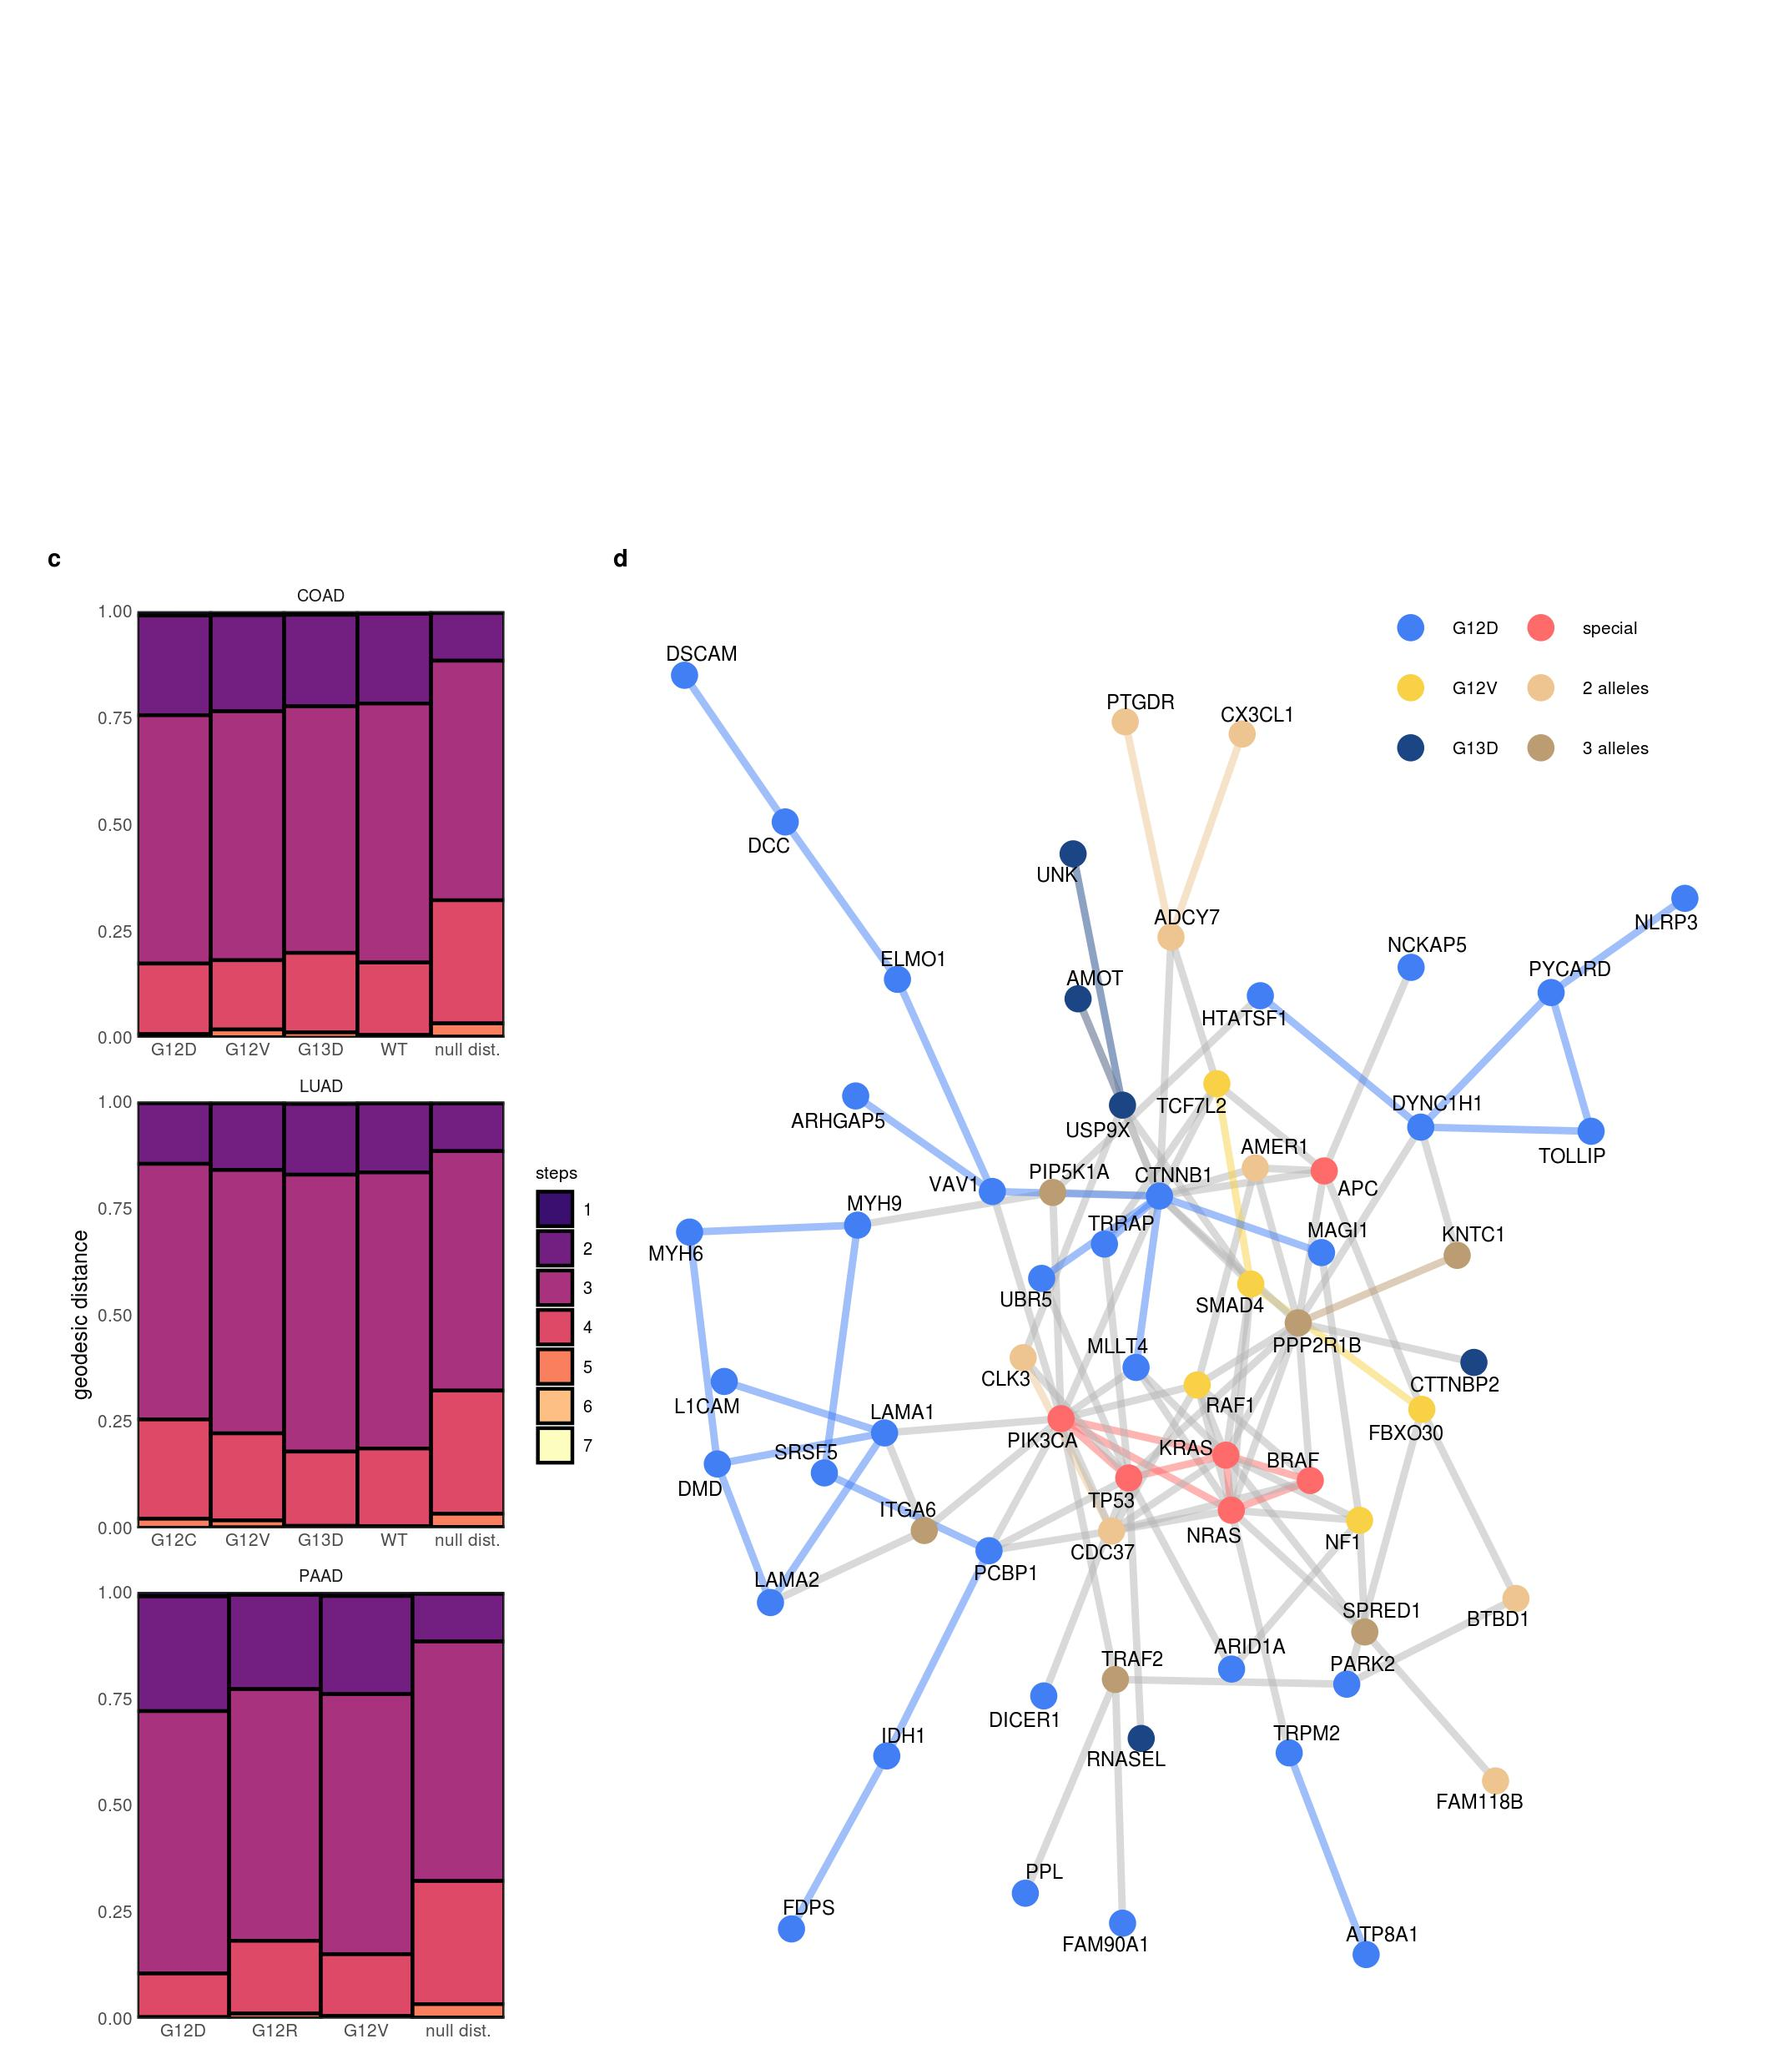
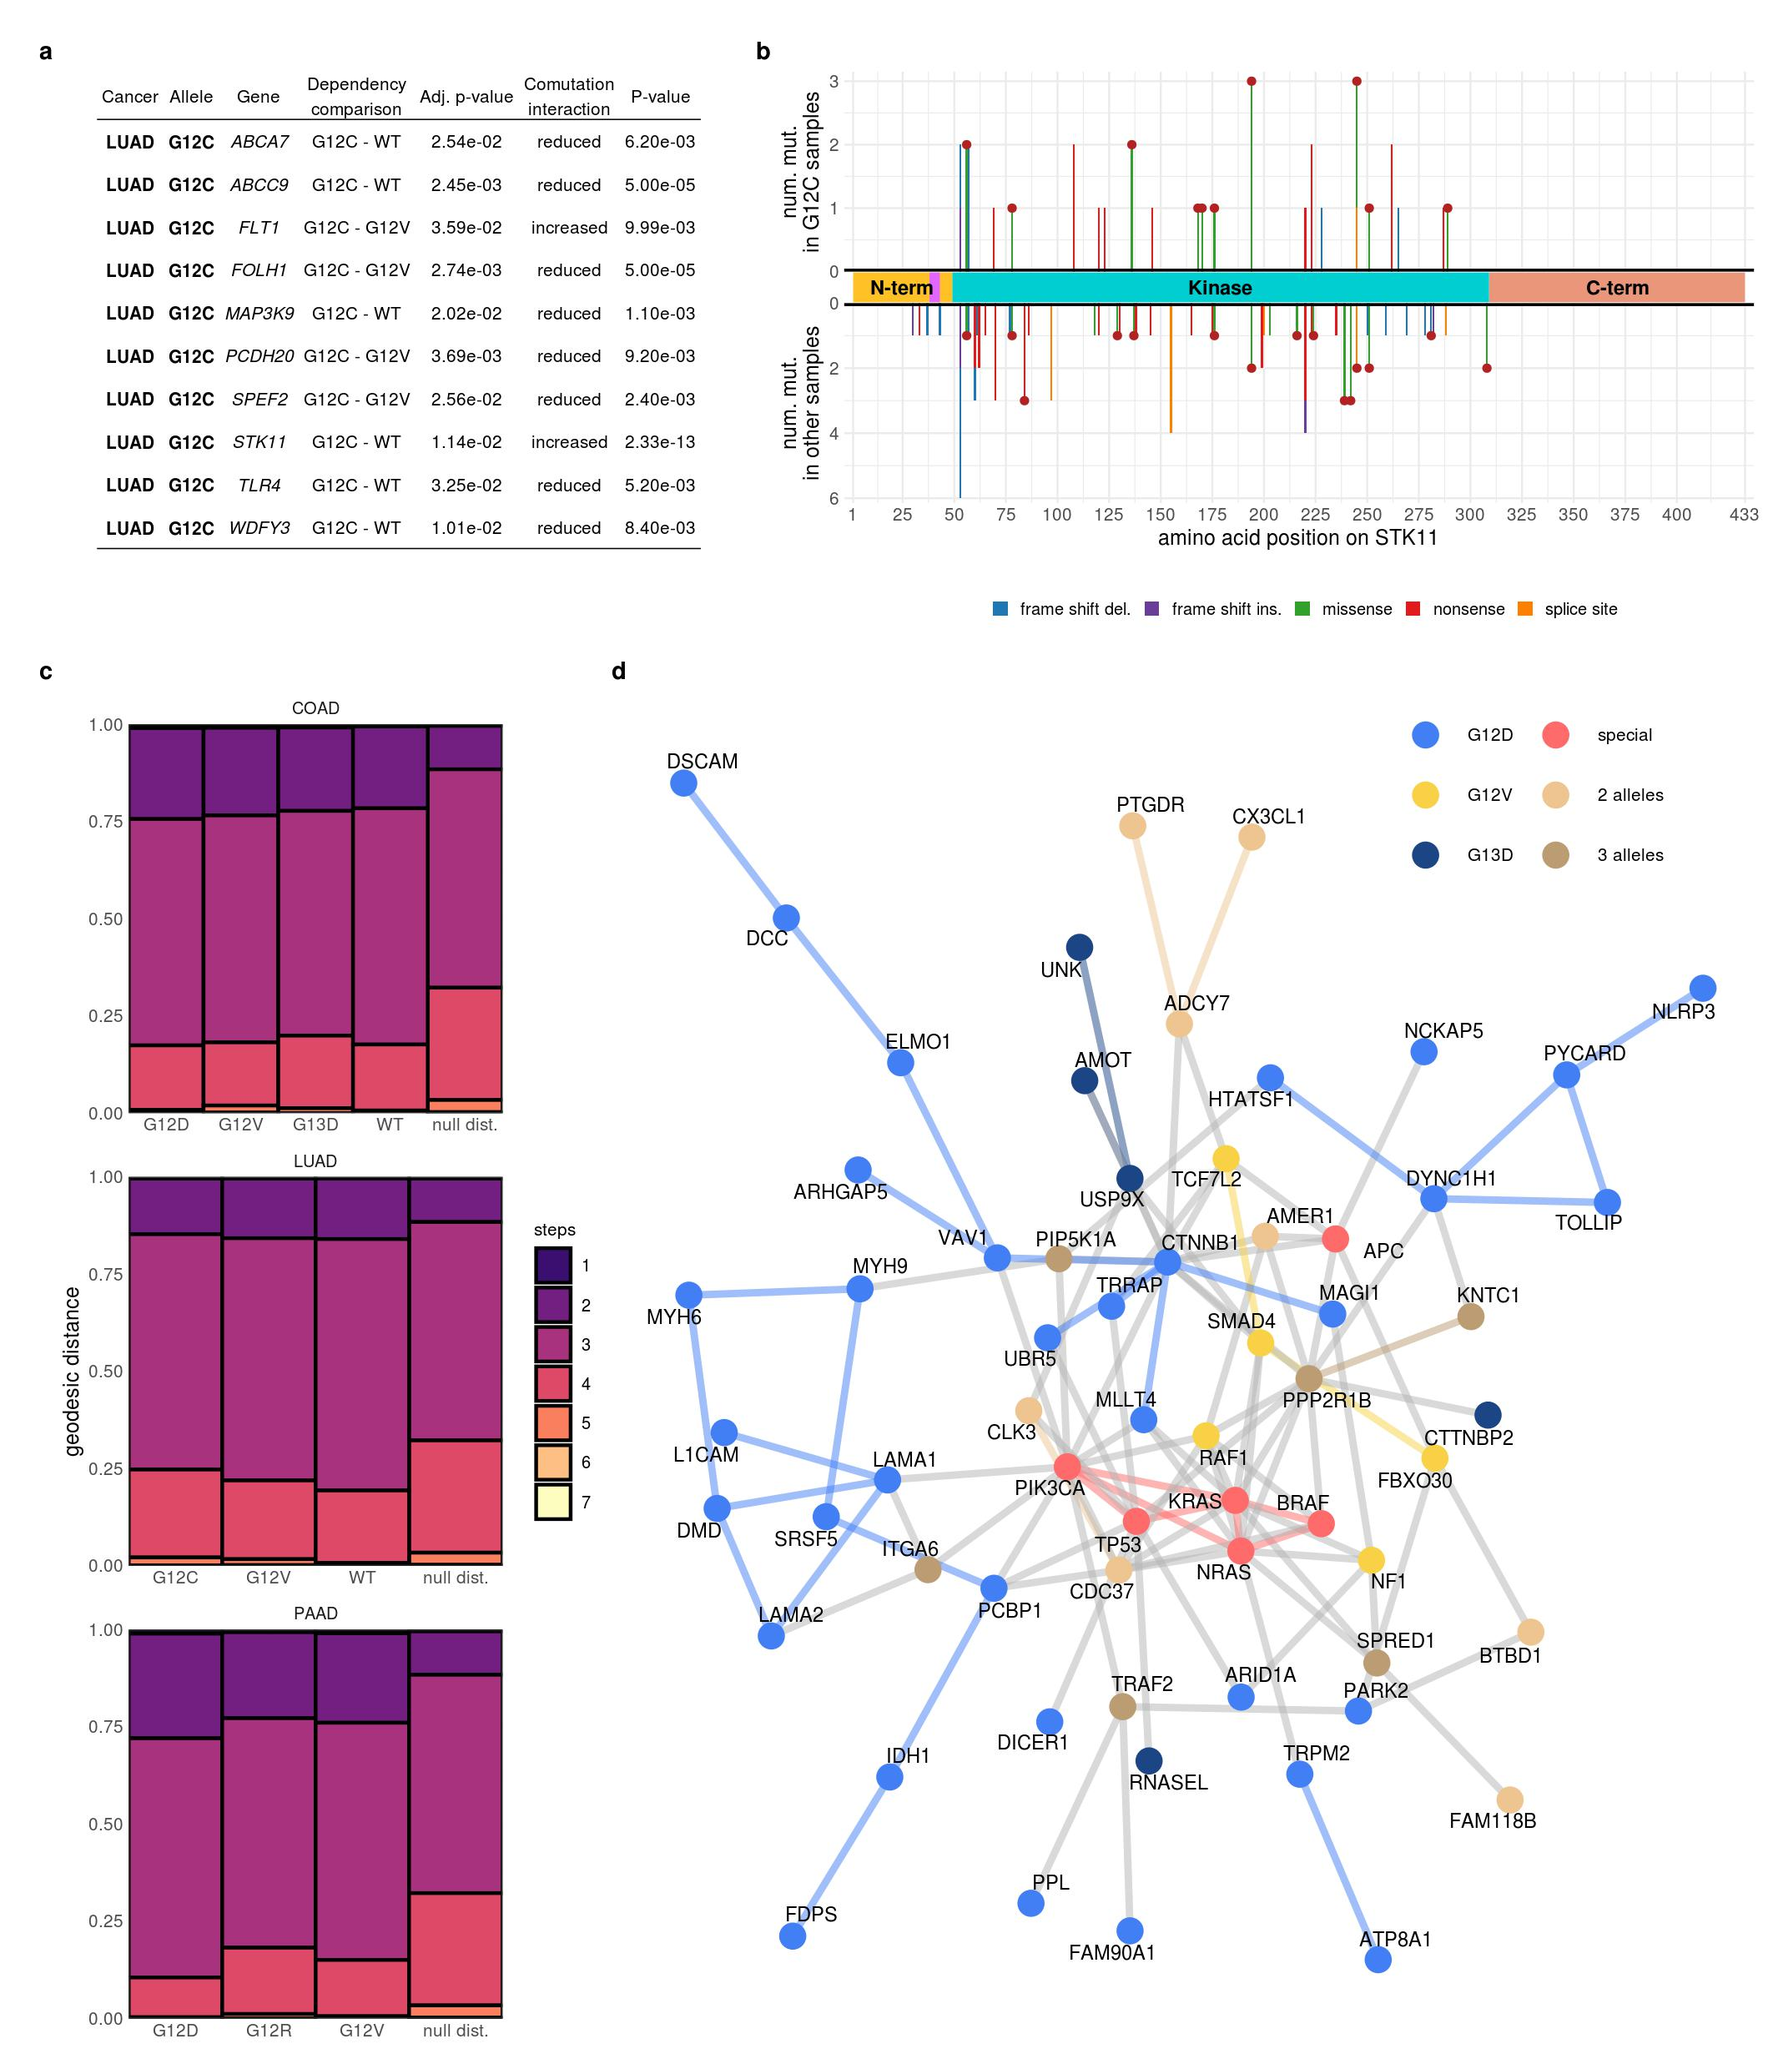
Update Fig 4, 6 after remove G13D cell lines from LUAD DepMap analysis.

diff --git a/comutation-manuscript.tex b/comutation-manuscript.tex
@@ -151,9 +151,6 @@ In COAD and PAAD, signature 18, likely caused by damage from reactive oxygen spe
 This corroborated the previous finding that \KRAS{} G12C mutations were more frequent in patients with MUTYH-Associated Polyposis \cite{Viel2017}, a recessive autosomal disease caused by biallelic loss-of-function mutations to the gene encoding the DNA glycosylase, \emph{MUTYH}, responsible for clearing 8-oxoguanine:A mismatches that can cause the G12C mutation.
 In MM, signature 9, associated with mutations introduced by polymerase $\eta$ repair of activation-induced deaminase (AID) activity \cite{Alexandrov2013, Rogozin2018DNACancer., Petljak2016UnderstandingCancer.}, was strongly linked with Q61H (Fig. \ref{fig:mutational-signatures-main}c, d), the most common \KRAS{} mutation in the cancer.
 
-% Overall, with the exceptions noted above, most of the \KRAS{} alleles cannot be attributed to a unique mutational signature. 
-% Instead, they are primarily attributable to the most common mutational process in the tumors: age-related mutation in COAD, MM, and PAAD, and tobacco smoke in LUAD.
-
 
 \subsection*{The frequency of most \KRAS{} alleles cannot be attributed to the prevalence of detected mutagens.}
 
@@ -277,15 +274,15 @@ These data suggest a reduced dependency on the activation of c-Jun via JNK signa
 
 \subsection*{An integrated analysis of allele-specific comutation and genetic dependencies.}
 
-% Integrating the results from the allele-specific comutation with those from the dependency analyses provided further insight into the distinctions between the \KRAS{} alleles.
-% Surprisingly, there was little overlap between the genes found to comutate with an allele and those with differential dependency - the only overlap was found with in the genes resulting from analysis of \KRAS{} G12C in LUAD (Fig. \ref{fig:results_integration_main}a).
-% One of these genes was \emph{STK11}, the gene encoding STK11 (LKB1), a tumor suppressor that controls the activity of AMP activated protein kinases (AMPK) to regulate cellular processes including metabolism, apoptosis, and the DNA-damage response \cite{Momcilovic2015TargetingVulnerabilities., Korsse2013TargetingCancer.}.
-% The high rate of comutation between \KRAS{} and \emph{STK11} has been documented previously, though not specifically with \KRAS{} G12C.
-% Previous studies have indicated unique biological properties of LUAD tumors with mutations in both \KRAS{} and \emph{STK11} including distinct expression profiles \cite{Skoulidis2015Co-occurringVulnerabilities.}, worse clinical prognosis \cite{LaFleur2019MutationSTK11, Bange2019ImpactCancer.}, and reduced response to immunotherapy \cite{Skoulidis2018STK11/LKB1Adenocarcinoma.}.
-% The results presented here may suggest a unique synergism between the G12C mutant and \emph{STK11} loss-of-function mutations.
-% Further analysis of the comutation and dependency networks may provide deeper insight into this clinically significant association.
-% Importantly, due to the strong influence of smoking-induced mutations to the prevalence of \KRAS{} G12C in LUAD, there was no apparent nor statistically detectable difference in the types or locations of \emph{STK11} mutations between G12C-mutant samples and the rest of the LUAD tumor samples (Fig. \ref{fig:results_integration_main}b).
-% Thus, it is unlikely that the genetic associations found here were driven by latent mutational processes, but instead they were determined by the selective advantage that concomitant \KRAS{} G12C and \emph{STK11} mutations have in a nascent tumor.
+Integrating the results from the allele-specific comutation with those from the dependency analyses provided further insight into the distinctions between the \KRAS{} alleles.
+Surprisingly, there was little overlap between the genes found to comutate with an allele and those with differential dependency - the only overlap was found with in the genes resulting from analysis of \KRAS{} G12C in LUAD (Fig. \ref{fig:results_integration_main}a).
+One of these genes was \emph{STK11}, the gene encoding STK11 (LKB1), a tumor suppressor that controls the activity of AMP activated protein kinases (AMPK) to regulate cellular processes including metabolism, apoptosis, and the DNA-damage response \cite{Momcilovic2015TargetingVulnerabilities., Korsse2013TargetingCancer.}.
+The high rate of comutation between \KRAS{} and \emph{STK11} has been documented previously, though not specifically with \KRAS{} G12C.
+Previous studies have indicated unique biological properties of LUAD tumors with mutations in both \KRAS{} and \emph{STK11} including distinct expression profiles \cite{Skoulidis2015Co-occurringVulnerabilities.}, worse clinical prognosis \cite{LaFleur2019MutationSTK11, Bange2019ImpactCancer.}, and reduced response to immunotherapy \cite{Skoulidis2018STK11/LKB1Adenocarcinoma.}.
+The results presented here may suggest a unique synergism between the G12C mutant and \emph{STK11} loss-of-function mutations.
+Further analysis of the comutation and dependency networks may provide deeper insight into this clinically significant association.
+Importantly, due to the strong influence of smoking-induced mutations to the prevalence of \KRAS{} G12C in LUAD, there was no apparent nor statistically detectable difference in the types or locations of \emph{STK11} mutations between G12C-mutant samples and the rest of the LUAD tumor samples (Fig. \ref{fig:results_integration_main}b).
+Thus, it is unlikely that the genetic associations found here were driven by latent mutational processes, but instead they were determined by the selective advantage that concomitant \KRAS{} G12C and \emph{STK11} mutations have in a nascent tumor.
 
 To further mine the genetic interactions found for each \KRAS{} allele, functional information was incorporated by annotating the nodes of the PPIN with the associations.
 For each allele in each cancer, the geodesic distance (the number of nodes on the shorted path) between the genes with allele-specific interactions was on average shorter than between nodes selected randomly on the network (Fig. \ref{fig:results_integration_main}c).
@@ -324,7 +321,7 @@ Presented here is a relatively minute analysis of the complex integration of com
 Whole genome sequencing (WGS), whole exome sequencing (WXS), and targeted gene panel sequencing data were collected of colorectal adenocarcinoma (COAD), lung adenocarcinoma (LUAD), multiple myeloma (MM), and pancreatic adenocarcinoma (PAAD).
 WXS and WGS data were downloaded from cBioportal \cite{Gao2013, Cerami2012}, which included relevant projects from The Cancer Genome Atlas (TCGA) \cite{CancerGenomeAtlasNetwork2012, CancerGenomeAtlasResearchNetwork2014, CancerGenomeAtlasResearchNetwork.Electronicaddress:andrew_aguirredfci.harvard.edu2017} and other smaller studies. 
 Additional data were acquired from the International Cancer Genome Consortium (ICGC) for pancreatic cancer \cite{Scarlett2011} and colorectal cancer. 
-MM WXS data were gathered from the Multiple Myeloma Research Foundation(MMRF)-CoMMpass online repository \cite{Walker2019AAnalysis.}.
+MM WXS data were gathered from the Multiple Myeloma Research Foundation (MMRF)-CoMMpass online repository \cite{Walker2019AAnalysis.}.
 Panel data for multiple cancers were retrieved from AACR Project Genomics Evidence Neoplasia Information Exchange (GENIE) \cite{AACRProjectGENIEConsortium2017AACRConsortium.}.
 GENIE data are an aggregation of several different panels ranging from 30 to 600 genes.
 \KRAS{} was included in all of the libraries. 
@@ -348,12 +345,12 @@ Supplementary Data indicates the number of samples per tissue in the GTEx and tu
 A gene was considered “expressed” in a tissue if it met at least one of the following criteria: 1) a median expression level of at least 1 TPM across all samples of the tissue in GTEx, 2) indicated as expressed at at least 1 TPM in the HPA data set for the tissue, 3) expressed with a median level of 1 batch-normalized raw counts (using RSEM) in the corresponding tumor RNA-sequencing data.
 
 
-% \subsection*{Predicting effect of mutations on gene or protein function}
+\subsection*{Predicting effect of mutations on gene or protein function}
 
-% The effect of a mutation on the function of a gene or encoded protein was predicted using SIFT \cite{Kumar2009, Vaser2016}, PolyPhen2 \cite{Adzhubei2010}, LRT \cite{Chun2009IdentificationGenomes.}, MutationTaster \cite{Schwarz2014MutationTaster2:Age.}, MutationAssessor \cite{Reva2007DeterminantsOptimization., Reva2011}, FATHMM \cite{Shihab2013}, MetaSVM \cite{Dong2015ComparisonStudies.}, and MetaLR \cite{Dong2015ComparisonStudies.}.
-% Known clinically significant mutations were acquired from ClinVar \cite{Landrum2018ClinVar:Evidence.}.
-% Annotations were applied using ANNOVAR \cite{Wang2010ANNOVAR:Data.}.
-% A mutation was marked as deleterious if it was predicted as such by at least one of the prediction methods or declared as such by CinVar.
+The effect of a mutation on the function of a gene or encoded protein was predicted using SIFT \cite{Kumar2009, Vaser2016}, PolyPhen2 \cite{Adzhubei2010}, LRT \cite{Chun2009IdentificationGenomes.}, MutationTaster \cite{Schwarz2014MutationTaster2:Age.}, MutationAssessor \cite{Reva2007DeterminantsOptimization., Reva2011}, FATHMM \cite{Shihab2013}, MetaSVM \cite{Dong2015ComparisonStudies.}, and MetaLR \cite{Dong2015ComparisonStudies.}.
+Known clinically significant mutations were acquired from ClinVar \cite{Landrum2018ClinVar:Evidence.}.
+Annotations were applied using ANNOVAR \cite{Wang2010ANNOVAR:Data.}.
+A mutation was marked as deleterious if it was predicted as such by at least one of the prediction methods or declared as such by CinVar.
 
 
 \subsection*{Protein-Protein Interaction Network (PPIN)}
@@ -562,8 +559,8 @@ A competing interests statement is required for all papers accepted by and publi
 \includegraphics[height=100mm]{figures/Figure_05.jpeg}
 \caption{
     \textbf{Integration of comutation and genetic dependency results.}
-    \textbf{a.}
-    \textbf{b.} 
+    \textbf{a.} A table of the genes found to comutate and demonstrate differential dependency with the same \KRAS{} allele. The "Dependency comparison" indicates the comparison of dependency scores found to be statistically significant; the "Adj. p-value" is the Benjamini-Hochberg-adjusted p-value for the comparison. The "Comutation interaction" indicates if the comutation interaction was a reduced or increased rate of comutation; the "P-value" is the p-value for this interaction.
+    \textbf{b.} The mutations along STK11 separated by those in \KRAS{} G12C-mutant samples (top) and the rest of the samples (bottom). The color of the vertical bars indicates the type of mutation, and a red dot at the top indicates if missense mutations at the location are predicted or known to be functionally damaging. The domains of STK11 are shown between the bar-plots. The magenta portion of the N-terminus is the nuclear localization signal.
     \textbf{c.} The connectivity of the proteins encoded by the genes found to comutate or demonstrate differential dependence with each \KRAS{} allele on the PPIN. The right-most column represents the null distribution of the connectivity of randomly selected pairs of nodes. The bars indicate the distribution of the geodesic distances (shortest path length) between nodes in the PPIN.
     \textbf{d.} The largest connected subnetwork of the PPIN of genes found to comutate or demonstrate differential dependence with each \KRAS{} allele was extracted. The network shown is the overlap of the subnetworks for each \KRAS{} allele in COAD. Nodes present in multiple subnetworks are colored shades of brown, save for prominent oncogenes and tumor suppressors in COAD, shown in red ("special"). The rest of the nodes are colored by which allele they are associated with. The edges share the color of the nodes they connect if the nodes are the same color, otherwise are grey.
 }
